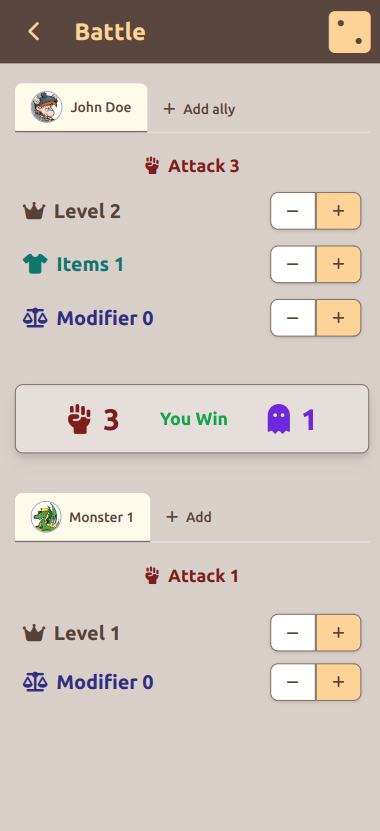
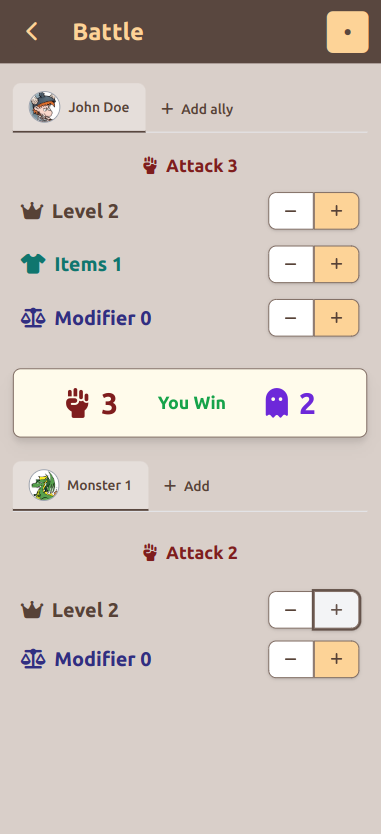
ui fixes

diff --git a/src/components/BattlePlayers.vue b/src/components/BattlePlayers.vue
@@ -39,28 +39,28 @@ watch(players, (newValue) => {
     <div class="border-b border-gray-200 dark:border-gray-700">
         <ul class="flex flex-wrap -mb-px text-sm font-medium text-center text-primary-900">
             <li v-for="(player, tabId) in players">
-                    <span class="cursor-pointer inline-flex py-2 px-4 border-b-2 border-transparent group items-center rounded-t-lg"
-                          :class="{'--active': currentTabPlayer === tabId }"
-                          @click="currentTabPlayer = tabId"
-                    >
-                        <img class="h-8 rounded-full mr-2 border border-gray-400" :src="getImageUrl(player.image)"
-                             alt="">
-                        {{ player.name }}
-                    </span>
+              <span class="cursor-pointer inline-flex py-2 px-4 border-b-2 group items-center rounded-t-lg"
+                    :class="{'--tab-active': currentTabPlayer === tabId }"
+                    @click="currentTabPlayer = tabId"
+              >
+                <img class="h-8 rounded-full mr-2 border border-gray-400"
+                     :src="getImageUrl(player.image)"
+                     alt="">
+                {{ player.name }}
+              </span>
             </li>
             <div v-if="players.length < 2">
                 <dropdown class="" :items="dropdownPlayers">
                     <li class="flex items-center p-2">
-                            <span class="cursor-pointer flex p-2 border-b-2 border-transparent group items-center h-max">
-                                <i class="fa fa-plus mr-2"></i>
-                                Add ally
-                            </span>
+                      <span class="cursor-pointer flex p-2 group items-center">
+                          <i class="fa fa-plus mr-2"></i>
+                          Add ally
+                      </span>
                     </li>
                 </dropdown>
             </div>
         </ul>
     </div>
-
     <PlayerStats :key="currentPlayer.id"
                  :playerId="currentPlayer.id"
                  v-model:modifier="currentPlayer.modifier"
@@ -75,6 +75,4 @@ watch(players, (newValue) => {
     padding: 0
     p
       @apply text-lg
-.--active
-  @apply border-b-primary-300 bg-amber-50
 </style>

diff --git a/src/components/BattleMonsters.vue b/src/components/BattleMonsters.vue
@@ -30,11 +30,11 @@ watch(monsters, (newValue) => {
 </script>
 
 <template>
-    <div class="border-b border-gray-200 dark:border-gray-700">
-        <ul class="flex flex-wrap -mb-px text-sm font-medium text-center text-primary-900">
+    <div class="border-b border-gray-200">
+        <ul class="flex flex-wrap text-sm font-medium text-center text-primary-900">
             <li v-for="(monster, tabId) in monsters">
-                    <span class="cursor-pointer inline-flex py-2 px-4 border-b-2 border-transparent group items-center rounded-t-lg"
-                          :class="{'--active': currentTabMonster === tabId }"
+                    <span class="cursor-pointer inline-flex py-2 px-4 border-b-2 group items-center rounded-t-lg"
+                          :class="{'--tab-active': currentTabMonster === tabId }"
                           @click="currentTabMonster = tabId"
                     >
                         <img class="h-8 rounded-full mr-2 border border-gray-400" src="../assets/images/monster.png"
@@ -43,7 +43,7 @@ watch(monsters, (newValue) => {
                     </span>
             </li>
             <li class="flex items-center" @click="addMonster">
-              <span class="cursor-pointer h-12 flex border-b-2 border-transparent group items-center px-4 py-2">
+              <span class="cursor-pointer h-12 flex group items-center px-4 py-2">
                   <i class="fa fa-plus mr-2"></i>
                   Add
               </span>
@@ -51,7 +51,7 @@ watch(monsters, (newValue) => {
         </ul>
     </div>
 
-    <div class="flex flex-col gap-3 p-2">
+    <div class="flex flex-col gap-3 p-2 mt-2">
         <div class="attack-counter text-center p-3 my-3">
             <p class="text-red-900 font-bold"
                title="atack"
@@ -90,6 +90,4 @@ watch(monsters, (newValue) => {
     padding: 0
     p
       @apply text-lg
-.--active
-  @apply border-b-primary-300 bg-amber-50
 </style>

diff --git a/src/views/BattleView.vue b/src/views/BattleView.vue
@@ -4,9 +4,9 @@ import BattlePlayers from '@/components/BattlePlayers.vue'
 import BattleMonsters from '@/components/BattleMonsters.vue'
 
 const props = defineProps({
-    id: {
-        required: true
-    }
+  id: {
+    required: true
+  }
 })
 
 const munchkinAttack = ref(0)
@@ -17,7 +17,7 @@ const monstersAttack = ref(0)
 <template>
     <div>
         <BattlePlayers :initialPlayer="props.id" v-model:attack="munchkinAttack"></BattlePlayers>
-        <div class="counters my-10 p-4 flex items-center justify-center gap-10 bg-secondary-100 rounded-lg border-primary-300 border drop-shadow-lg">
+        <div class="counters my-6 p-4 flex items-center justify-center gap-10 bg-amber-50 rounded-lg border-primary-300 border drop-shadow-lg">
             <div class="text-center">
                 <p class="text-red-900 text-3xl font-bold"
                    title="atack"
@@ -43,5 +43,7 @@ const monstersAttack = ref(0)
     </div>
 </template>
 
-<style lang="sass" scoped>
+<style lang="sass">
+.--tab-active
+  @apply border-b-primary-800 border-b-2 bg-secondary-100
 </style>
